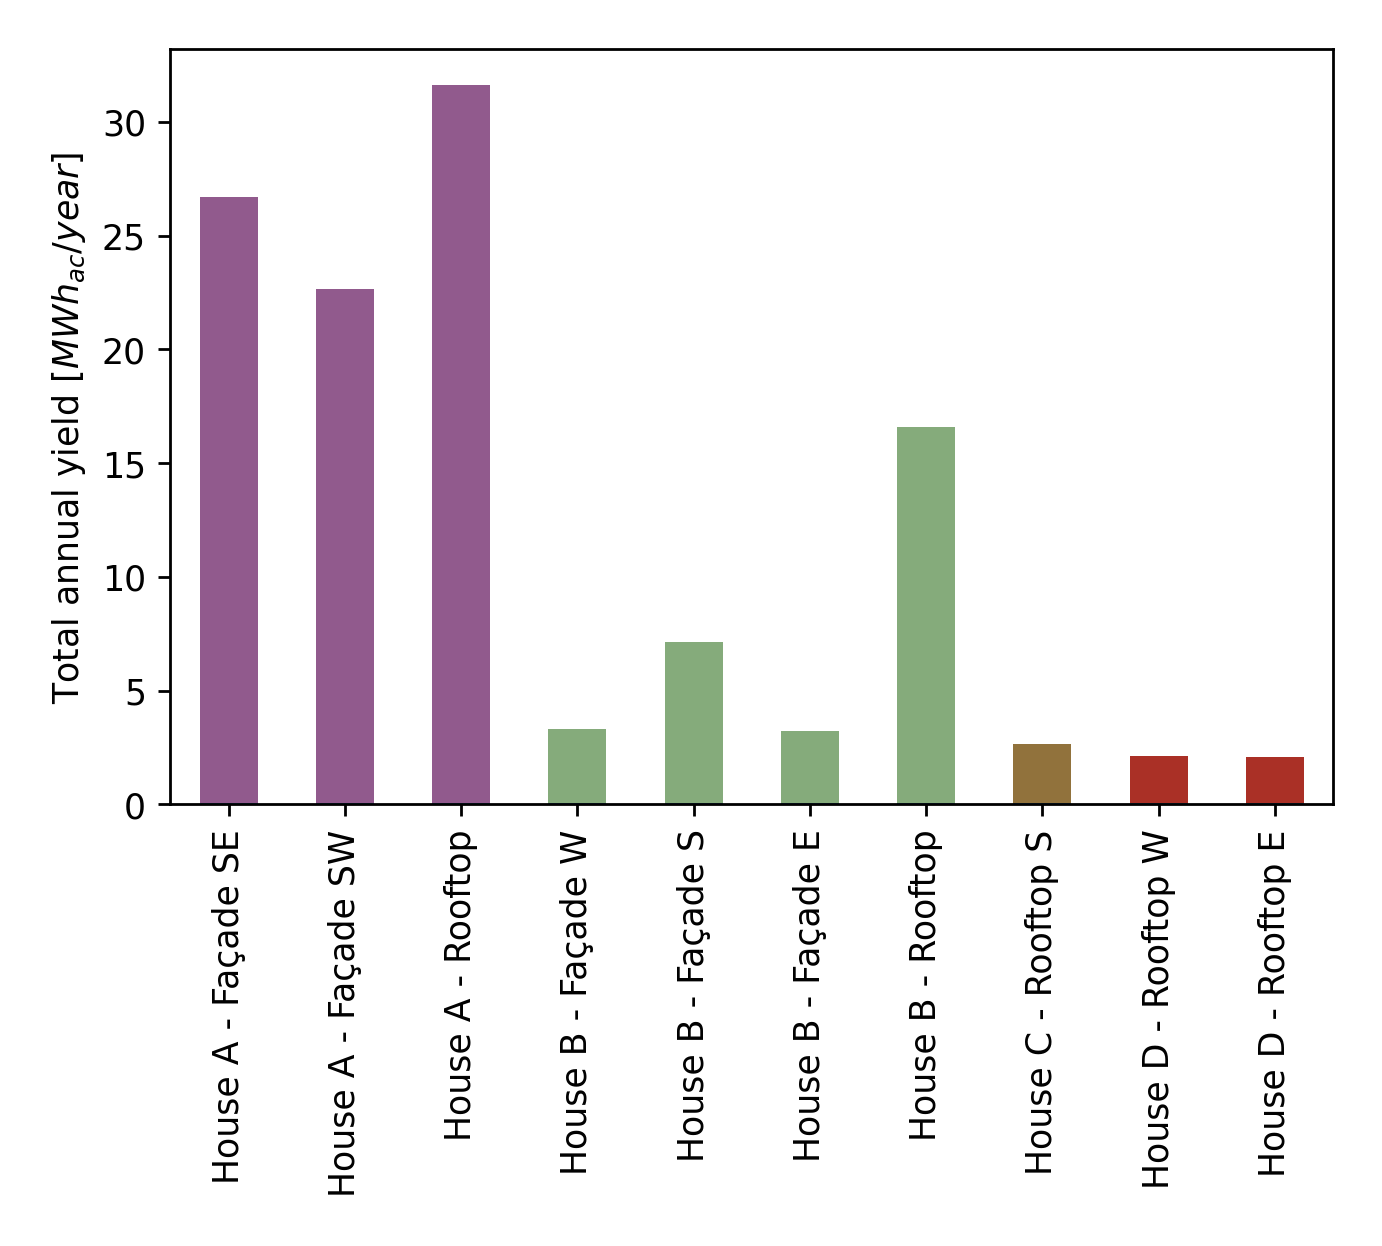
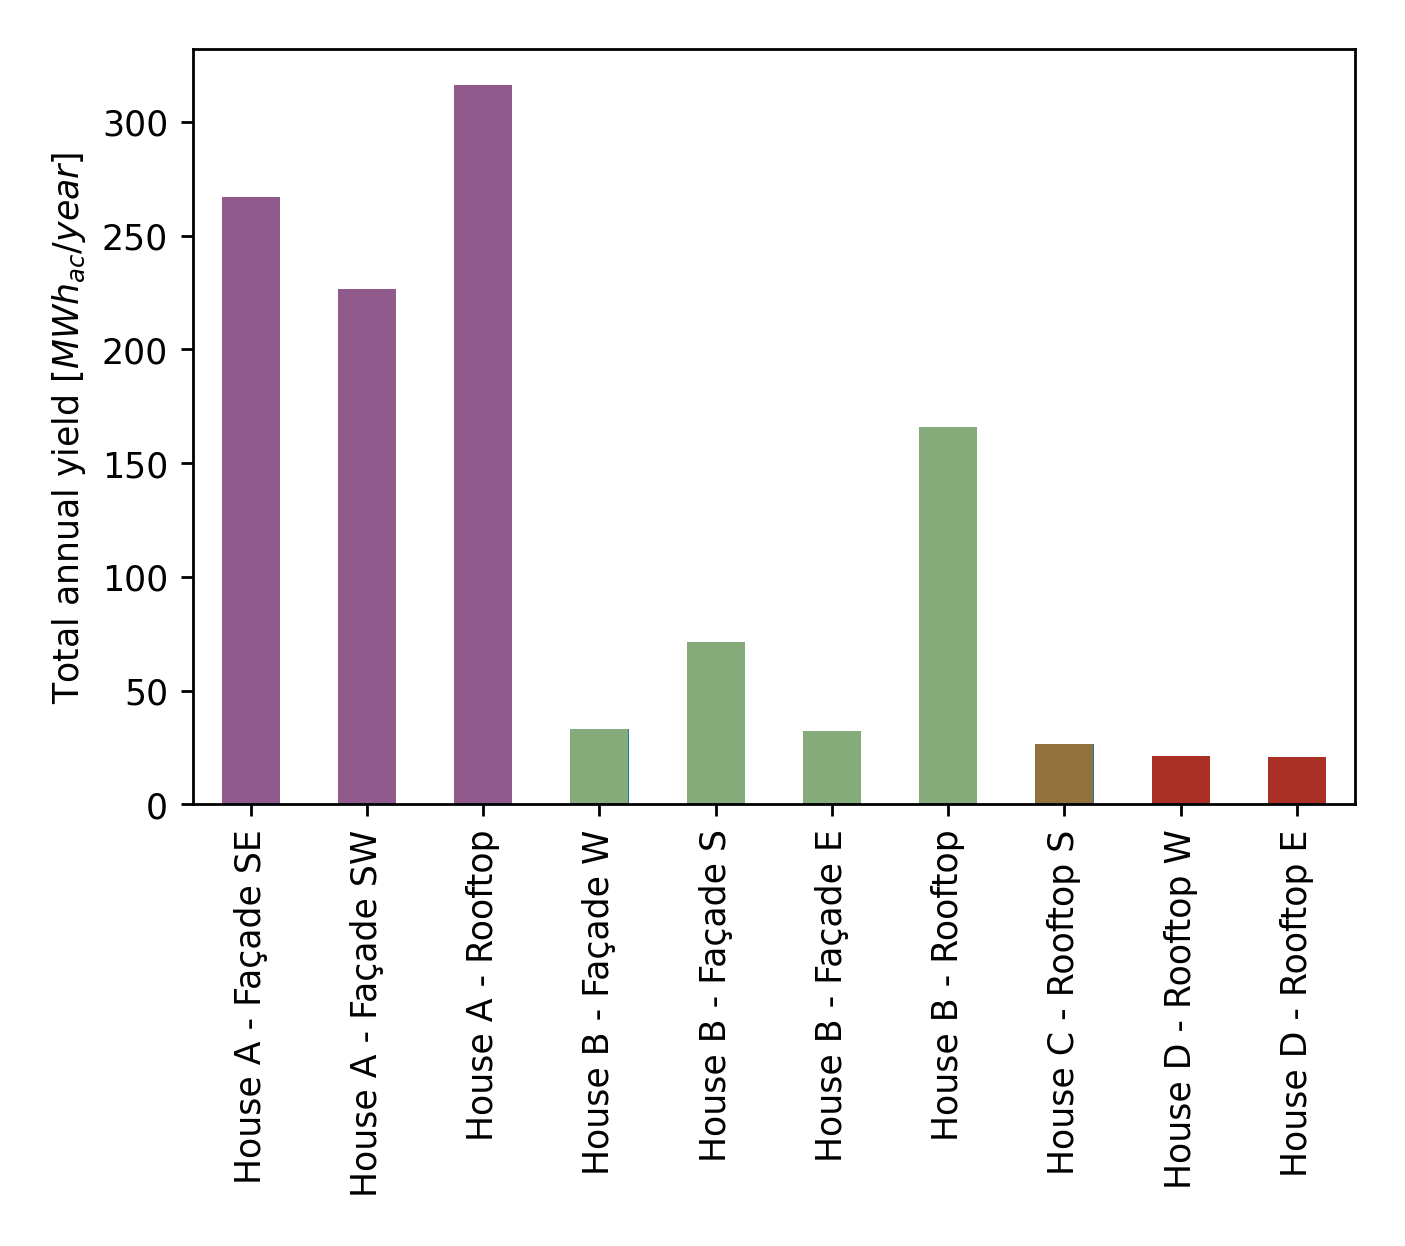
Fix the total_annual_yield_ac plot

diff --git a/src/question3.py b/src/question3.py
@@ -275,7 +275,7 @@ buildings = calculate_power_output(buildings)
 
 # Question 4
 create_bar_chart_for_best_module(
-    'total_annual_yield_ac', scale=0.0001, filename='total_annual_yield_ac_best', ylabel='Total annual yield [$MWh_{ac} / year$]')
+    'total_annual_yield_ac', scale=0.001, filename='total_annual_yield_ac_best', ylabel='Total annual yield [$MWh_{ac} / year$]')
 create_bar_chart_for_all_modules('specific_annual_yield_dc', filename='specific_annual_yield_dc',
                                  ylabel='Specific annual yield [$kWh_{dc} / m^2 year$]')
 create_bar_chart_for_all_modules(
